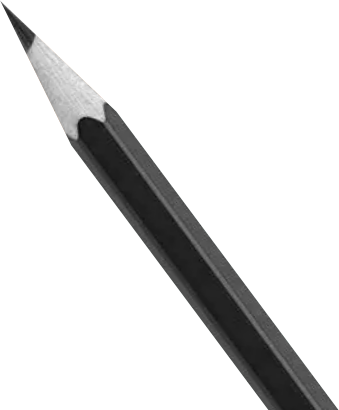
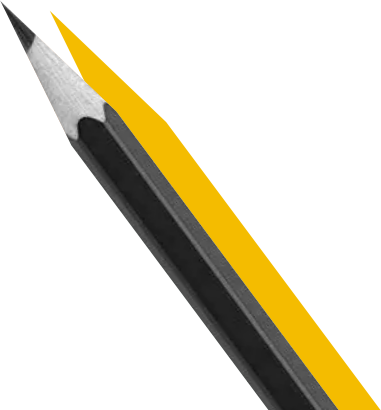
Pen box

Changed region(s): [[0.0, 0.0, 1.0, 1.0]]

diff --git a/assets/style.css b/assets/style.css
@@ -2,6 +2,11 @@
     font-family: Emberly;
     src: url(./font/Emberly-SemiBoldNarrow.otf);
 }
+
+@font-face {
+    font-family: EmberlyBold;
+    src: url(./font/Emberly-ExtraBoldCondensed.otf);
+}
 :root{
     --bg-primary: #F4BC00;
     --bg-secondary: #1a1a1a;
@@ -46,7 +51,7 @@ body{
     width: 57%;
     margin-bottom: 13.5%;
     margin-left: 12%;
-    box-shadow: var(--bg-primary) 0px 5px 20px;
+    box-shadow: var(--bg-primary) 0px 7px 29px 0px;
 }
 
 .logo{
@@ -141,13 +146,13 @@ body{
 }
 
 .slogans .slogans__content h1{
-    font-size: 65px;
+    font-size: 80px;
     margin: 70% 0 0 0;
 }
 
 .slogans .slogans__content h2{
     margin: 0;
-    font-size: 50px;
+    font-size: 65px;
 }
 
 .slogans .bar{
@@ -158,4 +163,49 @@ body{
     right: 10.7%;
     position: absolute;
     box-shadow: var(--white) -282px 243.5px 0px 0px;
+}
+
+.slogansImg{
+    grid-column: 9 / 13;
+    grid-row: 3 / 7;
+    position: relative;
+    display: grid;
+    justify-content: center;
+    padding-top: 165px;
+}
+
+.slogansImg .slogansImg__content{
+    background-color: var(--bg-ternary-light);
+    background-image: url(./img/secondary-face.png);
+    background-repeat: no-repeat;
+    background-size: contain;
+    background-position: right;
+    display: flex;
+    width: 250px;
+    height: 250px;
+    letter-spacing: 4pt;
+    margin: 40px 0 0 0;
+    box-shadow: var(--bg-secondary) 0px 7px 29px 0px;
+}
+
+.slogansImg .slogansImg__content h1{
+    font-size: 150px;
+    transform: rotate(180deg);
+    writing-mode: vertical-lr;
+    font-family: EmberlyBold;
+    color: var(--white);
+    margin: 20px 0 30px 0;
+}
+
+.pen{
+    grid-column: 7 / 10;
+    grid-row: 4 / 7;
+    display: flex;
+    justify-content: flex-end;
+    align-items: flex-end;
+}
+
+.pen img{
+    height: 93%;
+    margin-right: 25px;
 }
